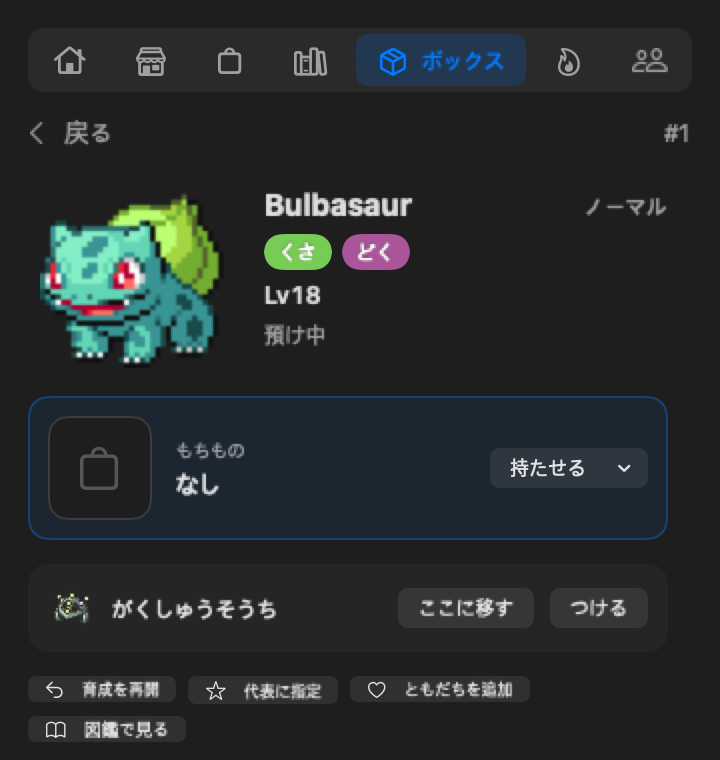
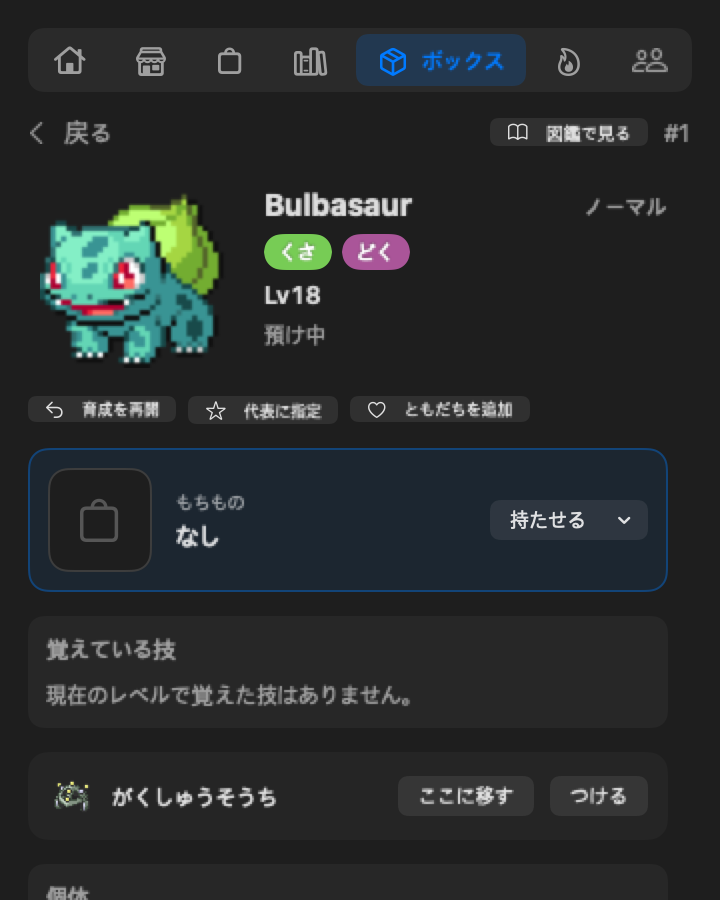
landing: Box page shows quick actions above the held item; redraw the profile, Exp. Share, Miracle Trade and nature screenshots

diff --git a/items/index.html b/items/index.html
@@ -48,10 +48,10 @@ try { var savedTheme=localStorage.getItem('ptb-theme'); if(savedTheme==='dark'||
 <figure class="feature-media"><img src="../assets/screenshot-move-order.png" data-i18n-image="screenshot-move-order" width="720" height="688" loading="lazy" data-i18n-alt="alt.moveOrder" alt="Native sample of four move slots as cards, each filled one with up and down arrows"><img class="crop-img" src="../assets/screenshot-status-moves.png" data-i18n-image="screenshot-status-moves" width="720" height="1522" loading="lazy" data-i18n-alt="alt.statusMoves" alt="Native move picker sample with level-up moves and a Status moves group"><img class="crop-img crop-mid" src="../assets/screenshot-egg-moves.png" data-i18n-image="screenshot-egg-moves" width="720" height="1798" loading="lazy" data-i18n-alt="alt.eggMoves" alt="Native move picker sample with two locked egg moves, Needs a Mirror Herb and a Use Mirror Herb button"><figcaption data-i18n="native.current">Native UI renders · sample states</figcaption></figure></section>
 
 <section class="feature-story" id="profile" aria-labelledby="profile-title"><div class="feature-copy"><h2 id="profile-title" data-i18n="it.profile.t">Every Pokémon has a profile.</h2><p data-i18n="it.profile.d">Open a Pokémon in the Box for its level, gender, nature, ability, IVs, stats, held item and moves. Descriptions, abilities and moves follow your language, with English as the fallback.</p></div>
-<figure class="feature-media crop"><img src="../assets/screenshot-pokemon-profile.png" data-i18n-image="screenshot-pokemon-profile" width="720" height="1120" loading="lazy" data-i18n-alt="alt.profile" alt="Native Box detail sample with a Pokémon's stats, held item, Exp. Share slot and moves"><figcaption data-i18n="native.current">Native UI renders · sample states</figcaption></figure></section>
+<figure class="feature-media crop"><img src="../assets/screenshot-pokemon-profile.png" data-i18n-image="screenshot-pokemon-profile" width="720" height="1120" loading="lazy" data-i18n-alt="alt.profile" alt="Native Box detail sample with a Pokémon's stats, quick actions, held item and moves"><figcaption data-i18n="native.current">Native UI renders · sample states</figcaption></figure></section>
 
 <section class="feature-story flip" id="exp-share" aria-labelledby="exp-title"><div class="feature-copy"><span class="badge" data-i18n="badge.fork">Only in PokeTokenBar-yp</span><h2 id="exp-title" data-i18n="k9.t">Exp. Share</h2><p data-i18n="k9.d">Attach an Exp. Share to one Pokémon in the Box. It gets 50% of the EXP your current Pokémon or egg earns, so a graduate keeps growing while you raise the next one. When a new egg sends your partner to the Box, an Exp. Share from your Bag goes on it. Move here on a Box page moves a copy from another holder, even with an empty Bag, and a holder in the Box evolves there when the next step needs only EXP, a level, friends or a type. A holder that can't use more EXP passes its copy to the closest Box line. A fully grown holder with no step left graduates by itself into your Pokédex. An Exp. Share left in the Bag goes on the Pokémon closest to its next step by itself, but never back on one you took it off yourself.</p></div>
-<figure class="feature-media"><img src="../assets/screenshot-exp-share.png" data-i18n-image="screenshot-exp-share" width="720" height="760" loading="lazy" data-i18n-alt="alt.expShare" alt="Native Box detail sample for a stored Bulbasaur with Move here and Attach for the Exp. Share"><figcaption data-i18n="native.current">Native UI renders · sample states</figcaption></figure></section>
+<figure class="feature-media"><img src="../assets/screenshot-exp-share.png" data-i18n-image="screenshot-exp-share" width="720" height="900" loading="lazy" data-i18n-alt="alt.expShare" alt="Native Box detail sample for a stored Bulbasaur with Move here and Attach for the Exp. Share"><figcaption data-i18n="native.current">Native UI renders · sample states</figcaption></figure></section>
 
 <section class="feature-story" id="nature" aria-labelledby="nature-title"><div class="feature-copy"><span class="badge" data-i18n="badge.fork">Only in PokeTokenBar-yp</span><h2 id="nature-title" data-i18n="k16.t">Ability, nature, IVs and form</h2><p data-i18n="k16.d">Your Pokémon can field what a gym trainer’s team does. The Mint opens a 5×5 chart and sets the nature you pick. The Ability Capsule and Patch switch abilities, and Bottle Caps raise IVs to 31. The Reveal Glass, DNA Splicers and Reins of Unity switch forms, and a form brings its own types, ability and stats to battle.</p></div>
 <figure class="feature-media crop crop-low"><img src="../assets/screenshot-nature-picker.png" data-i18n-image="screenshot-nature-picker" width="720" height="2240" loading="lazy" data-i18n-alt="alt.naturePicker" alt="Native Box detail sample with the 5×5 nature chart open, the Ability Capsule, Ability Patch and Gold Bottle Cap, and a Bottle Cap on each IV"><figcaption data-i18n="native.current">Native UI renders · sample states</figcaption></figure></section>

diff --git a/app.js b/app.js
@@ -158,7 +158,7 @@ const I18N = {
     "alt.held": "Native Shop and Bag sample with held items under Attack boost and Type boost",
     "k8.t": "Moves and TMs",
     "k8.d": "A Pokémon’s Box page lists its four moves, and you can swap one for a level-up, egg or TM move, including status moves like Swords Dance. Buy a TM once in the Shop and every Pokémon that can learn it may use it. Each slot is its own card, and ▲/▼ swap it with its neighbor to set the order. Move names follow the app language.",
-    "alt.profile": "Native Box detail sample with a Pokémon's stats, held item, Exp. Share slot and moves",
+    "alt.profile": "Native Box detail sample with a Pokémon's stats, quick actions, held item and moves",
     "k16.t": "Ability, nature, IVs and form",
     "k16.d": "Your Pokémon can field what a gym trainer’s team does. The Mint opens a 5×5 chart and sets the nature you pick. The Ability Capsule and Patch switch abilities, and Bottle Caps raise IVs to 31. The Reveal Glass, DNA Splicers and Reins of Unity switch forms, and a form brings its own types, ability and stats to battle.",
     "alt.naturePicker": "Native Box detail sample with the 5×5 nature chart open, the Ability Capsule, Ability Patch and Gold Bottle Cap, and a Bottle Cap on each IV",
@@ -430,7 +430,7 @@ const I18N = {
     "alt.held": "공격 강화·타입 강화 아래에 지닌 도구가 놓인 실제 상점·가방 UI 샘플",
     "k8.t": "기술과 기술머신",
     "k8.d": "포켓몬의 박스 페이지에 기술 네 개가 나오고, 레벨업·알 기술이나 기술머신 기술로 하나씩 바꿀 수 있어요. 칼춤 같은 변화 기술도 돼요. 기술머신은 상점에서 한 번 사면 배울 수 있는 모든 포켓몬이 쓸 수 있어요. 기술칸은 칸마다 카드로 나뉘고, ▲/▼로 옆 칸과 자리를 바꿔 순서를 정해요. 기술 이름은 앱 언어로 나와요.",
-    "alt.profile": "능력치·지닌 도구·학습장치 칸·기술을 보여 주는 실제 박스 상세 UI 샘플",
+    "alt.profile": "능력치·빠른 동작·지닌 도구·기술을 보여 주는 실제 박스 상세 UI 샘플",
     "k16.t": "특성·성격·개체값·폼",
     "k16.d": "체육관 트레이너의 팀이 갖출 수 있는 것은 내 포켓몬도 갖출 수 있어요. 민트는 5×5 성격표를 열고 고른 성격으로 바꿔 줘요. 특성캡슐과 특성패치는 특성을 바꾸고, 병뚜껑은 개체값을 31로 올려요. 비추는거울·유전자쐐기·유대의고삐는 폼을 바꾸고, 폼의 타입·특성·능력치가 그대로 배틀에 나가요.",
     "alt.naturePicker": "5×5 성격표가 열린 실제 박스 상세 UI 샘플과 특성캡슐·특성패치·금색병뚜껑, 개체값마다 붙은 은색병뚜껑",
@@ -702,7 +702,7 @@ const I18N = {
     "alt.held": "攻撃アップ・タイプ強化の見出しの下にもちものが並ぶ実際のショップ・バッグUIサンプル",
     "k8.t": "わざとわざマシン",
     "k8.d": "ポケモンのボックスページには4つのわざが並び、レベルアップわざ・タマゴわざ・わざマシンのわざと1つずつ入れ替えられます。つるぎのまいのような変化わざも使えます。わざマシンはショップで一度買えば、覚えられるすべてのポケモンが使えます。技の枠は一つずつカードに分かれ、▲/▼で隣の枠と入れ替えて順番を決められます。わざの名前はアプリの言語で表示されます。",
-    "alt.profile": "能力値・もちもの・がくしゅうそうちの枠・技を示す実際のボックス詳細UIサンプル",
+    "alt.profile": "能力値・すばやい操作・もちもの・技を示す実際のボックス詳細UIサンプル",
     "k16.t": "とくせい・性格・個体値・フォルム",
     "k16.d": "ジムトレーナーのチームが持てるものは、あなたのポケモンも持てます。ミントは5×5の性格表を開き、選んだ性格に変えます。とくせいカプセルとパッチはとくせいを変え、おうかんは個体値を31に上げます。うつしかがみ・いでんしのくさび・キズナのタヅナはフォルムを変え、フォルムのタイプ・とくせい・能力はそのままバトルに出ます。",
     "alt.naturePicker": "5×5の性格表を開いた実際のボックス詳細UIサンプルと、とくせいカプセル・とくせいパッチ・きんのおうかん、個体値ごとのぎんのおうかん",

diff --git a/collection/index.html b/collection/index.html
@@ -51,7 +51,7 @@ try { var savedTheme=localStorage.getItem('ptb-theme'); if(savedTheme==='dark'||
 <figure class="feature-media"><img src="../assets/screenshot-stored-friends.png" data-i18n-image="screenshot-stored-friends" width="720" height="650" loading="lazy" data-i18n-alt="alt.storedFriends" alt="Native friend picker sample offering a stored Bulbasaur, and Home with that Bulbasaur walking beside Charizard"><figcaption data-i18n="native.current">Native UI renders · sample states</figcaption></figure></section>
 
 <section class="feature-story flip" id="miracle-trade" aria-labelledby="miracle-title"><div class="feature-copy"><span class="badge" data-i18n="badge.fork">Only in PokeTokenBar-yp</span><h2 id="miracle-title" data-i18n="col.miracle.t">Miracle Trade</h2><p data-i18n="col.miracle.d">Put a tradable Pokémon up for Miracle Trade from its Box page, and the YPoke bot posts it as a card in the battle channel. The first coworker to pick one of their own Pokémon on the card trades with you at once, and both Pokémon arrive like any other trade. One offer at a time; take it down from the Box page or the card, or let it expire after 24 hours. Pick lists in Slack now tell look-alike Pokémon apart by sex, Shiny and nature, then #2 and #3.</p></div>
-<figure class="feature-media"><img src="../assets/screenshot-miracle-trade.png" data-i18n-image="screenshot-miracle-trade" width="720" height="1344" loading="lazy" data-i18n-alt="alt.miracle" alt="Native Box page sample with an Eevee up for Miracle Trade and the Take down button"><figcaption data-i18n="native.current">Native UI renders · sample states</figcaption></figure></section>
+<figure class="feature-media"><img src="../assets/screenshot-miracle-trade.png" data-i18n-image="screenshot-miracle-trade" width="720" height="2290" loading="lazy" data-i18n-alt="alt.miracle" alt="Native Box page sample with an Eevee up for Miracle Trade and the Take down button"><figcaption data-i18n="native.current">Native UI renders · sample states</figcaption></figure></section>
 
 <section class="feature-group" id="trades" aria-labelledby="trades-title"><h2 id="trades-title" data-i18n="col.more.t">Trades and new eggs.</h2><div class="card-grid wide">
 <article><span class="badge" data-i18n="badge.fork">Only in PokeTokenBar-yp</span><h3 data-i18n="k10.t">Trades and the Linking Cord</h3><p data-i18n="k10.d">Trade graduated Pokémon with a linked coworker from the Friends tab, or send one straight from its Box page; the other side accepts in Slack. Trade evolutions such as Haunter or Kadabra wait for a trade, or for a Linking Cord from the Shop. Some also need a held item first, like Onix with a Metal Coat. The item is used up when the Pokémon evolves.</p></article>
